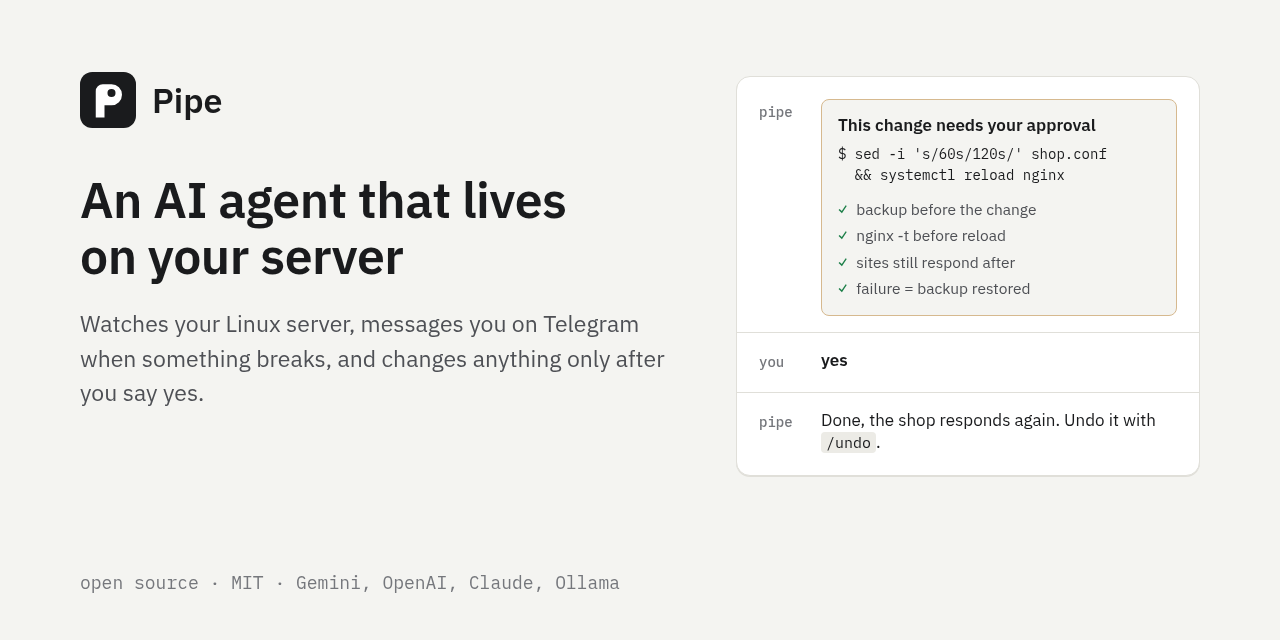
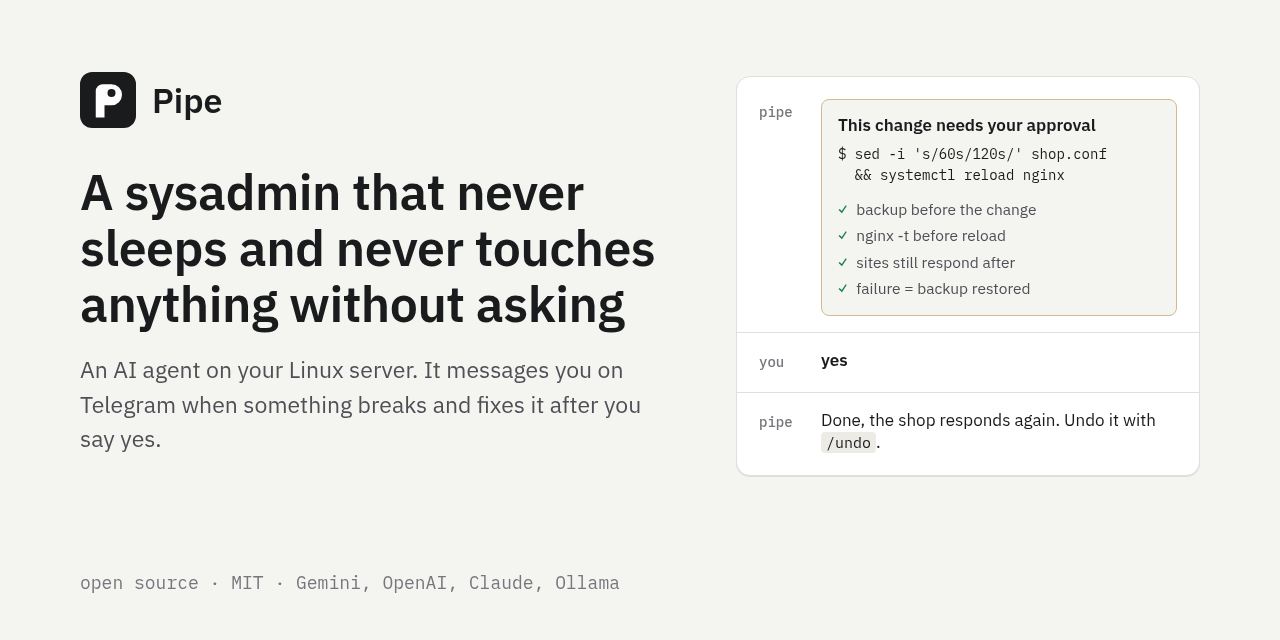
docs: nowy naglowek -- "Admin, ktory nie spi i niczego nie rusza bez pytania"
Zamiast definicji ("Agent AI, ktory dziala na Twoim serwerze...") naglowek mowi, kim Pipe jest dla czytelnika
i czym rozni sie od innych agentow; podtytul dopowiada, co to jest i jak dziala. Ten sam naglowek w README,
na stronie (pl/en) i na obrazku podgladu linkow.

Changed region(s): [[0.0625, 0.2812, 0.5312, 0.6562], [0.0625, 0.6875, 0.125, 0.7188]]

diff --git a/site/en/index.html b/site/en/index.html
@@ -39,10 +39,10 @@
 
 <main>
   <div class="wrap intro">
-    <h1>An AI agent that lives on your server</h1>
-    <p class="lead">Pipe watches a Linux server, messages you on Telegram when something breaks, and helps you fix it.
-      It reads everything but changes nothing until you say yes. Before every change it takes a backup, and afterwards
-      it checks that everything still works.</p>
+    <h1>A sysadmin that never sleeps and never touches anything without asking</h1>
+    <p class="lead">Pipe is an AI agent that lives on your Linux server. When something breaks, it messages you on
+      Telegram, finds the cause and proposes a fix. It reads everything but changes nothing until you say yes.
+      Before a change it takes a backup, and afterwards it checks that everything still works.</p>
     <pre class="cmd"><code>git clone https://github.com/Kvmyk/pipe &amp;&amp; cd pipe
 sudo bash scripts/install-server.sh --lang en</code></pre>
     <p class="meta">Open source, MIT license · works with Gemini (free tier), OpenAI, Claude, Ollama and others ·

diff --git a/site/index.html b/site/index.html
@@ -39,10 +39,10 @@
 
 <main>
   <div class="wrap intro">
-    <h1>Agent AI, który mieszka na Twoim serwerze</h1>
-    <p class="lead">Pipe pilnuje serwera Linux, sam pisze na Telegram, gdy coś się psuje, i pomaga to naprawić.
-      Czyta wszystko, ale niczego nie zmienia bez Twojego „tak”. Przed każdą zmianą robi kopię, a po niej sprawdza,
-      czy wszystko dalej działa.</p>
+    <h1>Admin, który nie śpi i niczego nie rusza bez pytania</h1>
+    <p class="lead">Pipe to agent AI, który mieszka na Twoim serwerze Linux. Gdy coś się psuje, pisze do Ciebie
+      na Telegram, szuka przyczyny i proponuje poprawkę. Czyta wszystko, ale zmienia dopiero po Twoim „tak”.
+      Przed zmianą robi kopię, a po niej sprawdza, czy wszystko dalej działa.</p>
     <pre class="cmd"><code>git clone https://github.com/Kvmyk/pipe &amp;&amp; cd pipe
 sudo bash scripts/install-server.sh</code></pre>
     <p class="meta">Open source na licencji MIT · działa z Gemini (darmowy limit), OpenAI, Claude, Ollamą i innymi ·

diff --git a/site/style.css b/site/style.css
@@ -74,7 +74,7 @@ img { max-width: 100%; height: auto; display: block; }
 
 /* --- naglowek strony --- */
 .intro { padding: 64px 0 40px; }
-.intro h1 { font-size: clamp(30px, 4.6vw, 46px); line-height: 1.15; letter-spacing: -.02em; font-weight: 600; margin: 0 0 20px; max-width: 18ch; }
+.intro h1 { font-size: clamp(30px, 4.6vw, 46px); line-height: 1.15; letter-spacing: -.02em; font-weight: 600; margin: 0 0 20px; max-width: 22ch; }
 .intro .lead { font-size: 19px; color: var(--ink-2); max-width: 62ch; margin: 0 0 28px; }
 .intro .meta { font-size: 14.5px; color: var(--ink-3); margin-top: 14px; }
 .intro .meta a { color: var(--ink-2); }

diff --git a/README.en.md b/README.en.md
@@ -4,9 +4,11 @@
 
 <h1 align="center">Pipe</h1>
 
+<h3 align="center">A sysadmin that never sleeps and never touches anything without asking.</h3>
+
 <p align="center">
-  An AI agent that runs on your Linux server. It watches the server, messages you when something breaks,<br>
-  and makes every change only after you say yes, with a backup and a way to undo it.
+  Pipe is an AI agent that lives on your Linux server. When something breaks, it messages you on Telegram,<br>
+  finds the cause and proposes a fix. It applies the fix only after you say yes, with a backup you can undo in one command.
 </p>
 
 <p align="center">

diff --git a/README.md b/README.md
@@ -4,9 +4,11 @@
 
 <h1 align="center">Pipe</h1>
 
+<h3 align="center">Admin, który nie śpi i niczego nie rusza bez pytania.</h3>
+
 <p align="center">
-  Agent AI, który działa na Twoim serwerze Linux. Pilnuje go, sam pisze, gdy coś się psuje,<br>
-  a każdą zmianę robi dopiero po Twoim „tak”, z kopią zapasową i możliwością cofnięcia.
+  Pipe to agent AI, który mieszka na Twoim serwerze Linux. Gdy coś się psuje, pisze do Ciebie na Telegram,<br>
+  szuka przyczyny i proponuje poprawkę. Wprowadza ją dopiero po Twoim „tak”, z kopią, którą cofniesz jedną komendą.
 </p>
 
 <p align="center">
